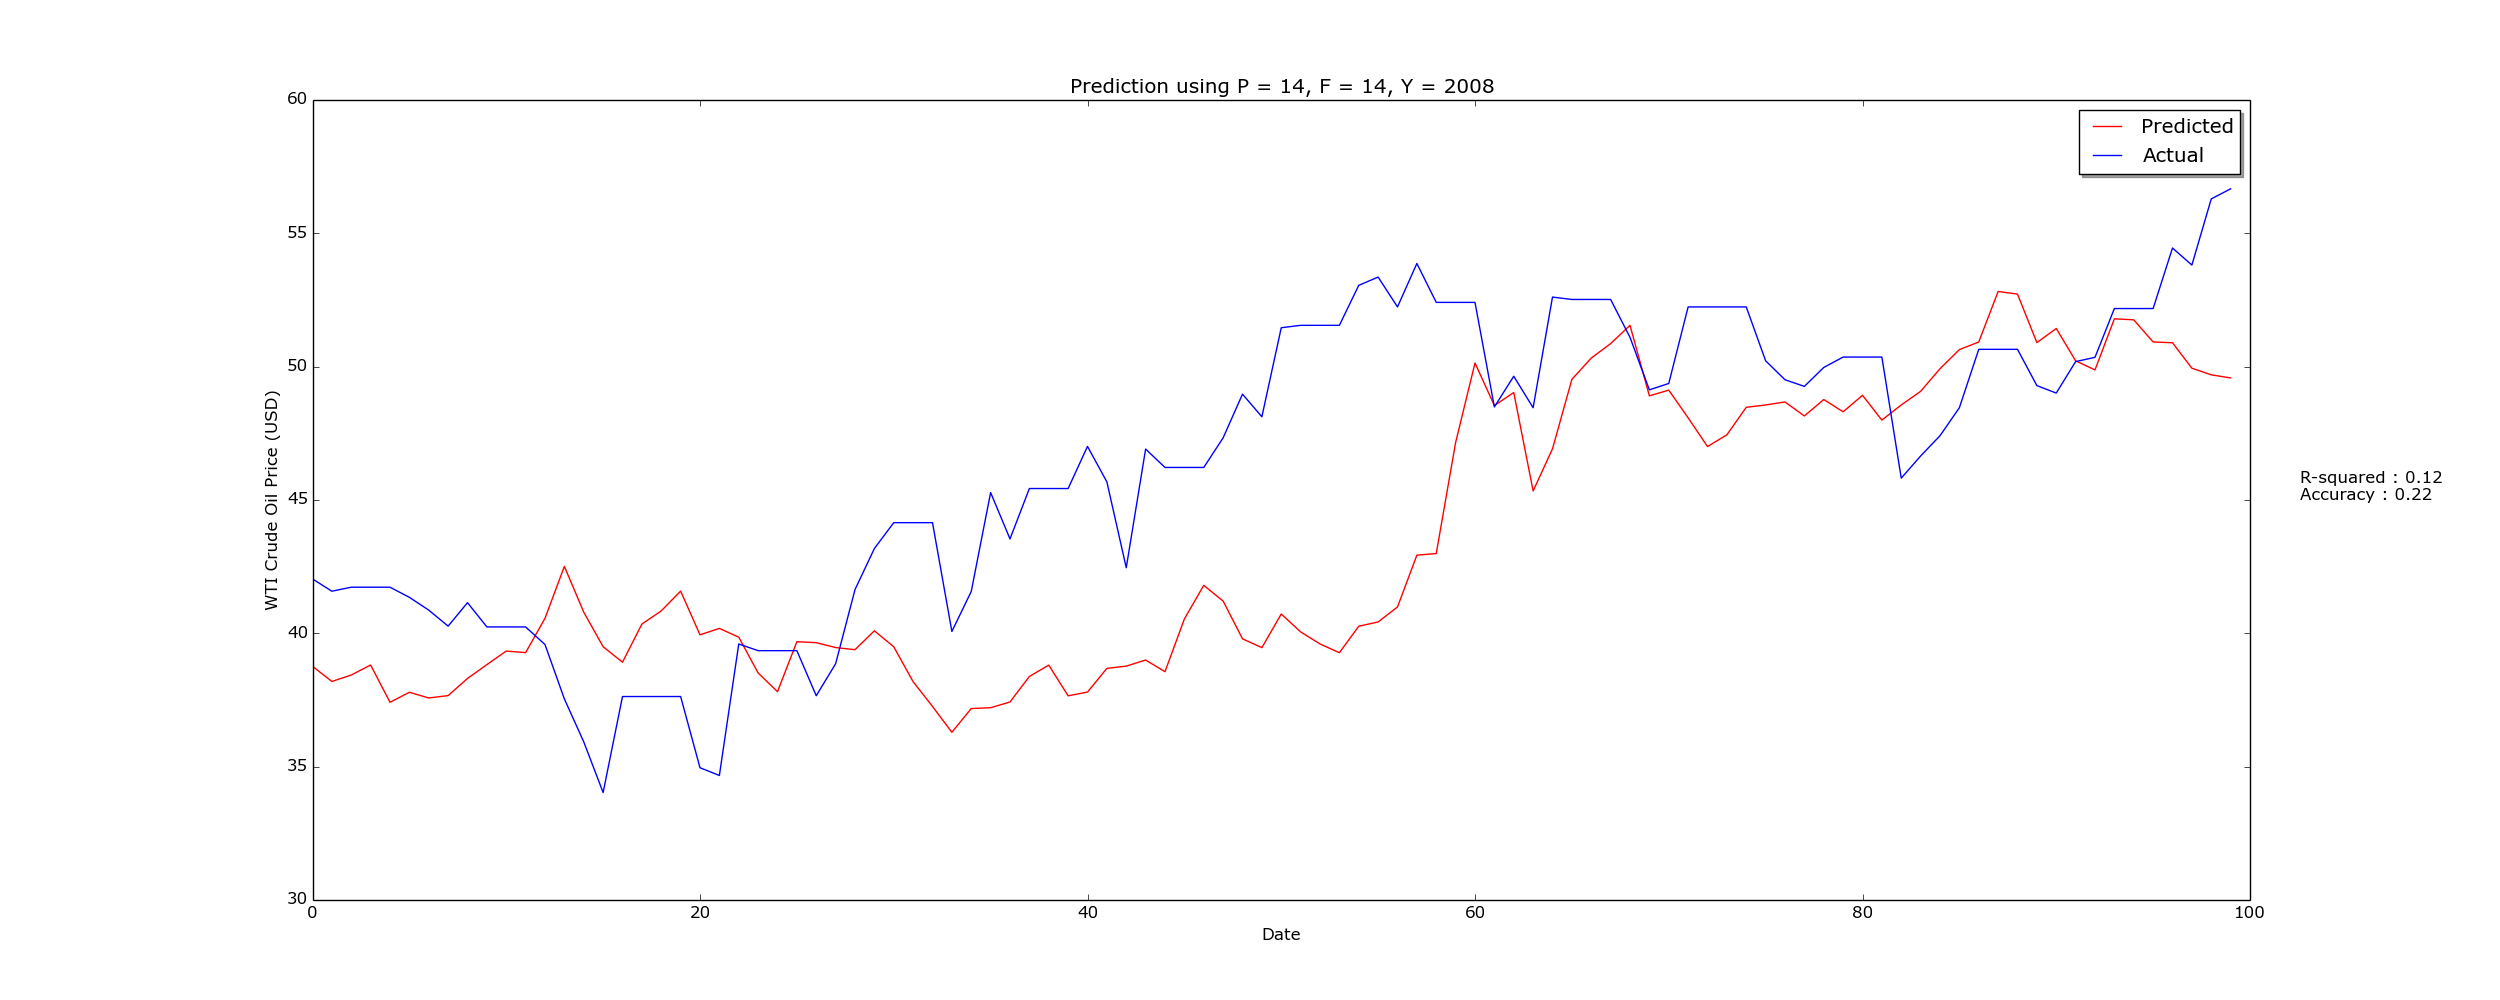
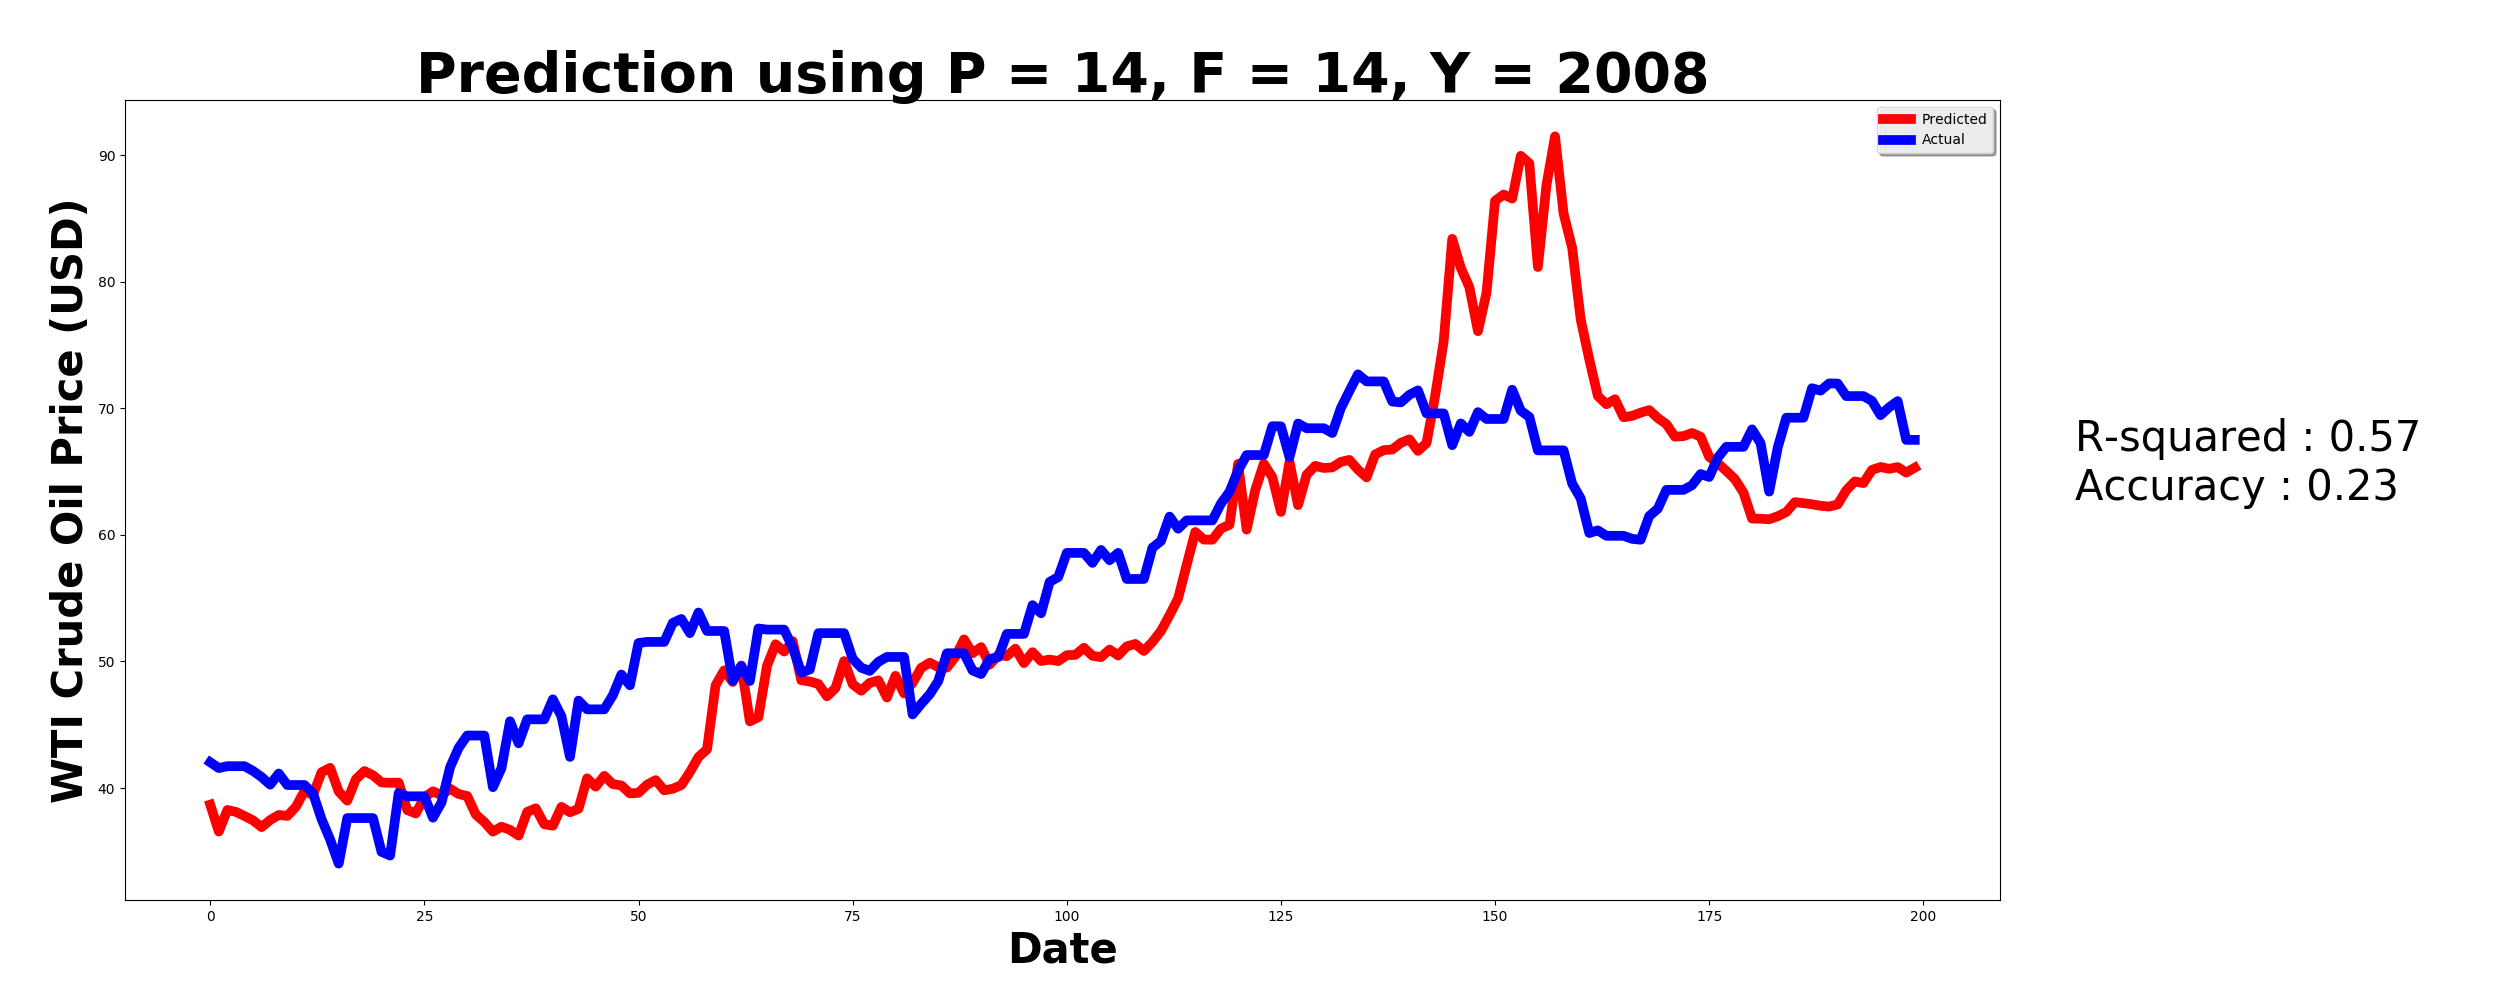
Graphs for p=14 complete

diff --git a/pythonRandomForest/call_ml.py b/pythonRandomForest/call_ml.py
@@ -8,7 +8,7 @@ from common import date_time_to_str
 from common import get_date_range
 
 ######### DEFINE THE SOLUTION SPACE ############
-MIN_YEAR = 2013
+MIN_YEAR = 2008
 MAX_YEAR = 2017
 ###############################################
 
